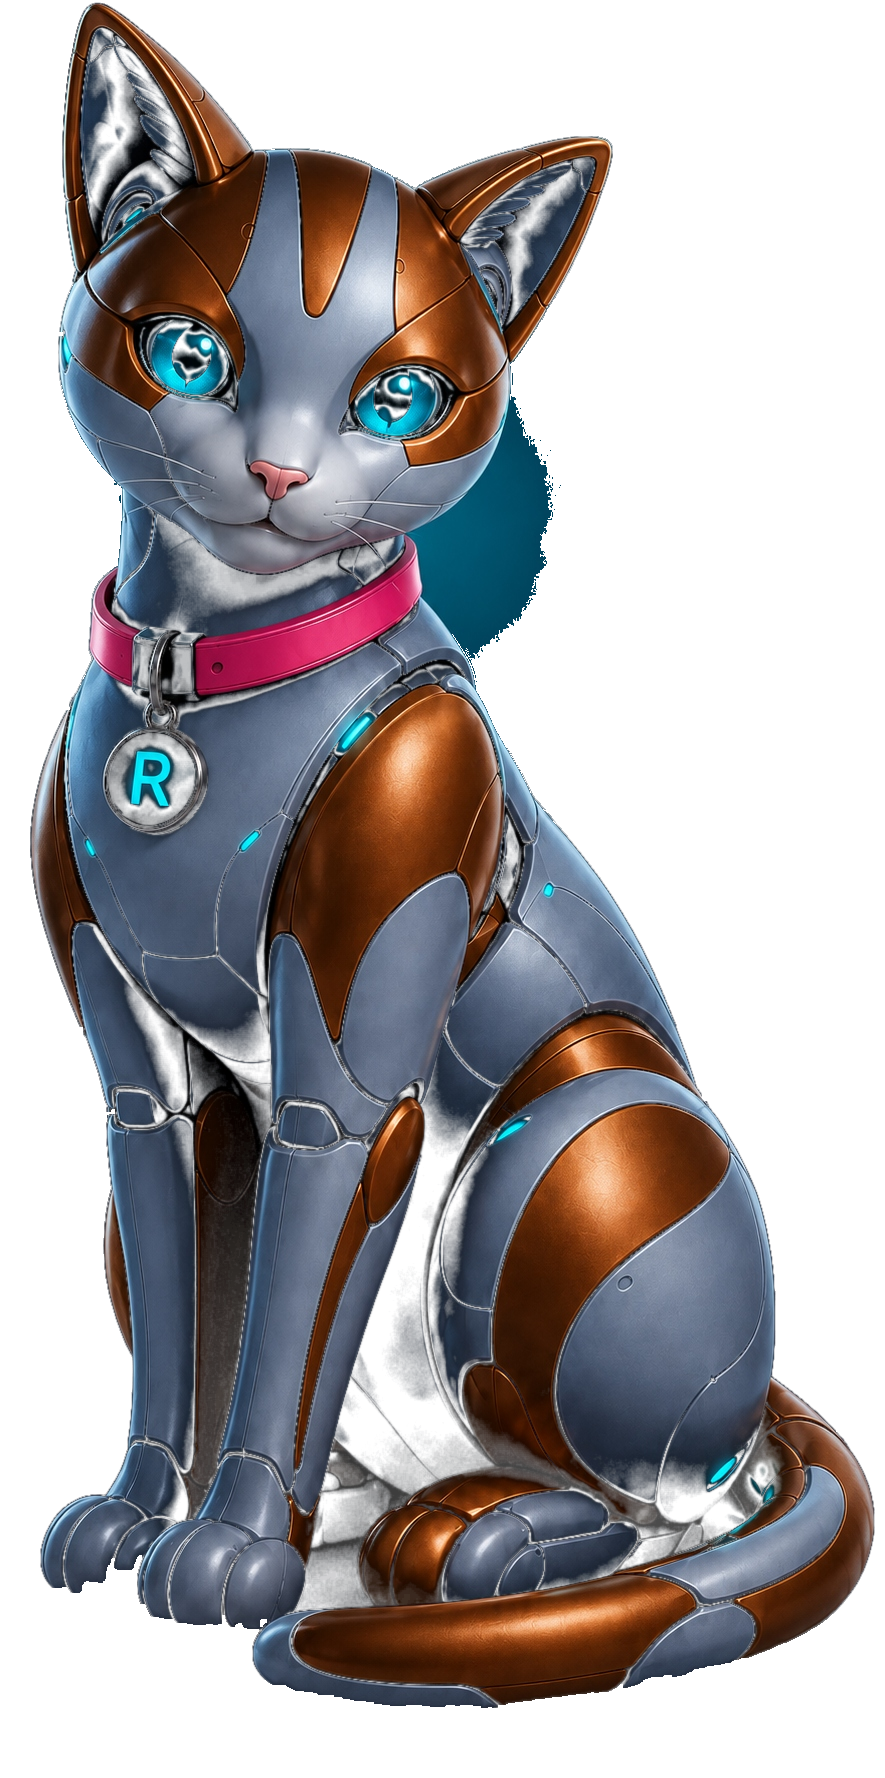
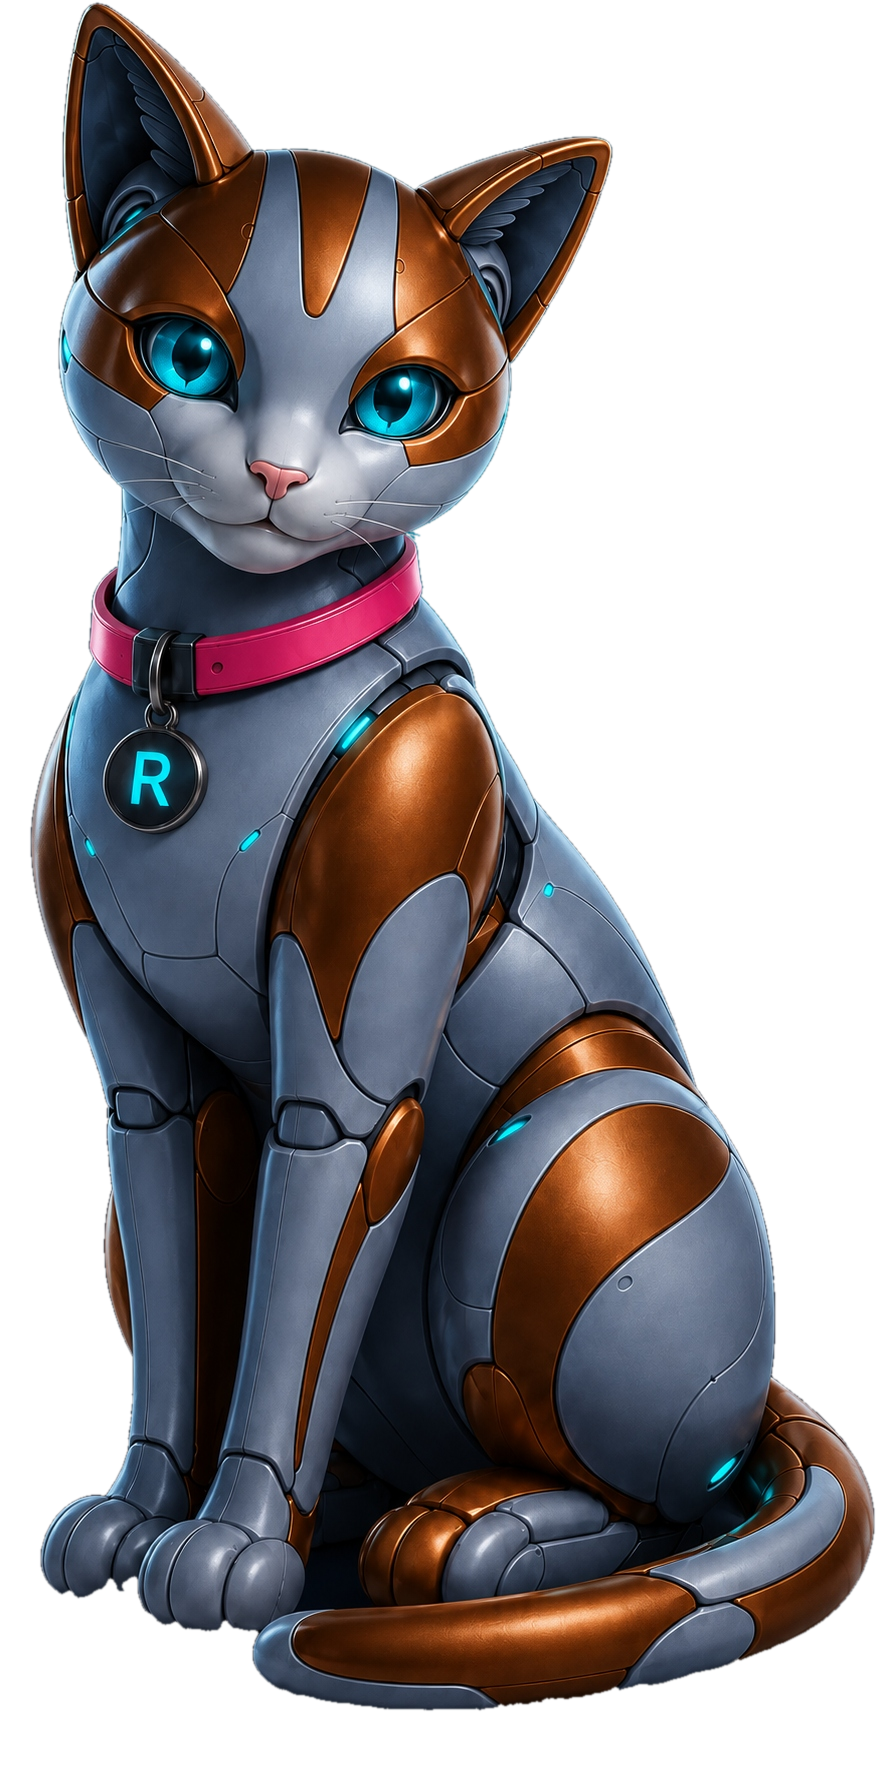
Dark mascot: make the cat opaque, and take the last of the bloom
Two faults on the hero, both in the alpha of the supplied export.

The band was visible through the cat. The export's own background removal
keyed out the cat's darkest areas along with the backdrop — the abdomen
sits at alpha 10-19, parts of the inner ears not much better — and the
hero draws its pulsing roster band behind the mascot, so anything short of
solid shows through. The silhouette is now filled to full opacity rather
than inheriting whatever alpha each pixel arrived with.

A lobe of bloom survived to the right of the neck. The previous pass
removed the soft outer glow but left 19,000px of saturated cyan against
the jaw, fully opaque and bright enough (luminance 64) that any
brightness-based rule keeps it for lit plating.

Colour is what separates that lobe from the cat: it averages 104 on
blue-minus-red where the cat's own grey-blue never passes about 40. But
the same test catches the darker cyan inside the eyes, so it cannot be
applied on colour alone — the lobe opens onto the frame and the eyes are
walled in by plating, so connectivity decides which goes.

Colour data is untouched; only alpha is rewritten. The script asserts on
both faults: six points of the cat that must be fully opaque (abdomen,
both inner ears, eye, collar) and three probes in the bloom that must be
clear, plus a whisker check, since a two-pixel line necessarily loses a
few levels to the edge feather.

Claude-Session: https://claude.ai/code/session_01EAMMBJ3odzxL5sBj4of7jf

diff --git a/tools/dehalo-dark-mascot.py b/tools/dehalo-dark-mascot.py
@@ -1,32 +1,26 @@
-"""Strip the leftover backdrop halo from the transparent dark mascot.
+"""Make the dark mascot's transparent export usable on the auth hero.
 
-The supplied cut-out is clean on the cat — plating, whiskers and collar are
-fully opaque — but a soft bloom of the original navy backdrop survives in
-the alpha around the head and neck, reaching alpha 174 well clear of the
-silhouette. On the dark panel it is invisible; against anything else it is
-a grey smudge behind the shoulder.
+The export needs two things doing to it, and they pull in opposite
+directions, which is why they are one script rather than two.
 
-Nothing here touches the cat. RGB is copied through byte for byte, and
-every pixel inside the silhouette keeps the alpha it arrived with — the
-eyes and inner ears included, which sit a few levels below opaque in the
-source and stay exactly there. Only alpha outside the silhouette is
-cleared.
+1. The cat has to be OPAQUE. The export's own background removal keyed out
+   the cat's darkest areas along with the backdrop: the abdomen sits at
+   alpha 10-19 and parts of the inner ears are little better. The hero
+   draws its pulsing roster band behind the mascot, so anything short of
+   solid lets the band show through the cat.
 
-Two things the silhouette cannot be found by:
+2. The backdrop's bloom has to go. A soft navy glow survives around the
+   head, and against the jaw it firms up into a saturated cyan lobe that is
+   fully opaque — 19,000px of it — which is what stayed visible to the
+   right of the neck after the first attempt: it is bright enough (lum 64)
+   to pass for lit plating, so a brightness rule keeps it.
 
-  * Alpha alone. The bloom has a dense core against the cheek that reaches
-    full opacity; taken for cat, it gets sealed in by fill_holes as a hard
-    teal blob.
-  * Colour alone, past a point. The cat's shadowed plating is grey-blue and
-    not much brighter than the bloom. Raising the brightness bar to 90 does
-    clear the last of the bloom — and takes the chest, the front legs and
-    the belly with it. 55 is the setting that holds the body.
-
-What is left after that is a narrow band right against the jaw, where the
-bloom blends into the cat's own cyan rim light. The band's colour is the
-one thing that separates it: it is strongly cyan (blue minus red above 55)
-where the cat's grey-blue never gets past about 40, so the last step
-clears that and only that, and only where it is reachable from outside.
+Colour is what separates that lobe from the cat: it is dark-ish and
+strongly cyan, and the cat's own grey-blue never gets past about 40 on
+blue-minus-red where the lobe averages 104. But the same test also catches
+the darker cyan inside the eyes, so it cannot be applied on colour alone.
+Connectivity settles it — the lobe opens onto the frame, the eyes are
+enclosed by plating.
 """
 import numpy as np
 from PIL import Image
@@ -35,15 +29,19 @@ from scipy import ndimage
 SRC = 'src/assets/RotaCat-full-body-mascot-dark-transparentBG.png'
 DST = 'src/assets/RotaCat-full-body-mascot-dark-transparentBG-dehaloed.png'
 
-SOLID = 250     # the cat's own pixels are 245-255
-CAT_LUM = 55    # see the note above on why this is not higher
-WARM = -6       # blue-minus-red: copper and collar are warm, the backdrop never is
-CLOSE = 3       # px, bridges the anti-aliased gaps in the solid mask
-RIM = 2         # px of the cat's own anti-aliased edge to preserve
-BLOOM_CYAN = 55 # blue-minus-red above this, and dark, is rim bloom not cat
-BLOOM_REACH = 60
+SOLID = 200        # the cat's lit surfaces; its shadows are recovered by enclosure
+BLOOM_LUM = 85     # the jaw lobe reaches 64, so a lower bar leaves it behind
+BLOOM_CYAN = 45    # the cat's grey-blue tops out near 40; the bloom averages 104
+CLOSE = 3
+FEATHER = 0.8
 
 S3 = np.ones((3, 3), bool)
+
+
+def _disk(r):
+    y, x = np.ogrid[-r:r + 1, -r:r + 1]
+    return (x * x + y * y) <= r * r
+
 
 src = np.array(Image.open(SRC).convert('RGBA'))
 alpha = src[:, :, 3]
@@ -51,33 +49,44 @@ rgb = src[:, :, :3].astype(np.float32)
 lum = 0.2126 * rgb[:, :, 0] + 0.7152 * rgb[:, :, 1] + 0.0722 * rgb[:, :, 2]
 blueness = rgb[:, :, 2] - rgb[:, :, 0]
 
-solid = (alpha >= SOLID) & ((lum > CAT_LUM) | (blueness < WARM))
-silhouette = ndimage.binary_fill_holes(
-    ndimage.binary_closing(solid, structure=np.ones((2 * CLOSE + 1,) * 2, bool))
-)
-# The cat's outline is anti-aliased, so a couple of pixels of sub-opaque edge
-# belong to it; cutting flush to the solid mask leaves a hard, jagged edge.
-keep = ndimage.binary_dilation(silhouette, structure=np.ones((2 * RIM + 1,) * 2, bool))
-out_alpha = np.where(keep, alpha, 0)
+bloom = (lum < BLOOM_LUM) & (blueness > BLOOM_CYAN)
 
-bloom = (lum < CAT_LUM) & (blueness > BLOOM_CYAN) & (out_alpha > 0)
-reachable = ndimage.binary_dilation(~keep, structure=S3, mask=(bloom | ~keep),
-                                    iterations=BLOOM_REACH)
-out_alpha = np.where(bloom & reachable, 0, out_alpha)
+solid = (alpha >= SOLID) & ~bloom
+silhouette = ndimage.binary_fill_holes(ndimage.binary_closing(solid, structure=_disk(CLOSE)))
 
+# Bloom that opens onto the frame is backdrop and goes; bloom walled in by
+# the cat is the eyes, and stays. Growing the outside through bloom-coloured
+# pixels only is what tells the two apart.
+outside = ~silhouette
+open_bloom = ndimage.label(bloom | outside, structure=S3)[0]
+at_edge = np.unique(np.concatenate([open_bloom[0], open_bloom[-1],
+                                    open_bloom[:, 0], open_bloom[:, -1]]))
+silhouette &= ~(bloom & np.isin(open_bloom, at_edge[at_edge != 0]))
+silhouette = ndimage.binary_fill_holes(silhouette)
+
+# Solid through and through, with a pixel of feather so the edge is not
+# stair-stepped. The colour data is untouched throughout — only alpha is
+# rewritten.
 out = src.copy()
-out[:, :, 3] = out_alpha
+out[:, :, 3] = np.clip(ndimage.gaussian_filter(silhouette.astype(np.float32), FEATHER), 0, 1) * 255
 Image.fromarray(out, 'RGBA').save(DST)
 
-# The promise of this script, asserted rather than hoped for: nothing that is
-# opaque and unambiguously the cat may lose its alpha.
-definitely_cat = (alpha >= SOLID) & ((lum > 100) | (blueness < -30))
-assert not (definitely_cat & (out_alpha == 0)).any(), 'cat pixels were cleared'
-assert np.array_equal(src[:, :, :3], out[:, :, :3]), 'RGB changed'
-assert np.array_equal(alpha[keep & ~bloom], out_alpha[keep & ~bloom]), 'alpha changed inside the cat'
+a = out[:, :, 3]
+# The places the band was showing through. These are body, so they must be
+# fully solid — no "nearly".
+for name, (y, x) in {'abdomen': (1255, 425), 'abdomen 2': (1300, 400), 'left ear inner': (210, 300),
+                     'right ear inner': (215, 560), 'eye': (370, 400), 'collar': (640, 240)}.items():
+    assert a[y, x] == 255, '%s is not opaque (alpha %d)' % (name, a[y, x])
 
-cleared = (alpha > 0) & (out_alpha == 0)
+# A whisker is a two-pixel line, so the feather that keeps the silhouette's
+# edge from stair-stepping necessarily takes the top off it. 250 of 255 is
+# the cost of not having a jagged cat.
+assert a[560, 120] >= 240, 'whisker faded to %d' % a[560, 120]
+for name, (y, x) in {'halo lobe': (500, 470), 'halo at jaw': (470, 560),
+                     'halo behind head': (300, 700)}.items():
+    assert a[y, x] == 0, '%s survived (alpha %d)' % (name, a[y, x])
+
+assert np.array_equal(src[:, :, :3], out[:, :, :3]), 'RGB changed'
 print('wrote %s' % DST)
-print('cleared %d px (%.2f%% of frame), max alpha %d, mean rgb %s — all backdrop bloom'
-      % (cleared.sum(), 100 * cleared.mean(), alpha[cleared].max(),
-         rgb[cleared].mean(axis=0).round(1)))
+print('opaque %.1f%% of frame; every checked point of the cat is solid and every halo probe is clear'
+      % (100 * (a == 255).mean()))
